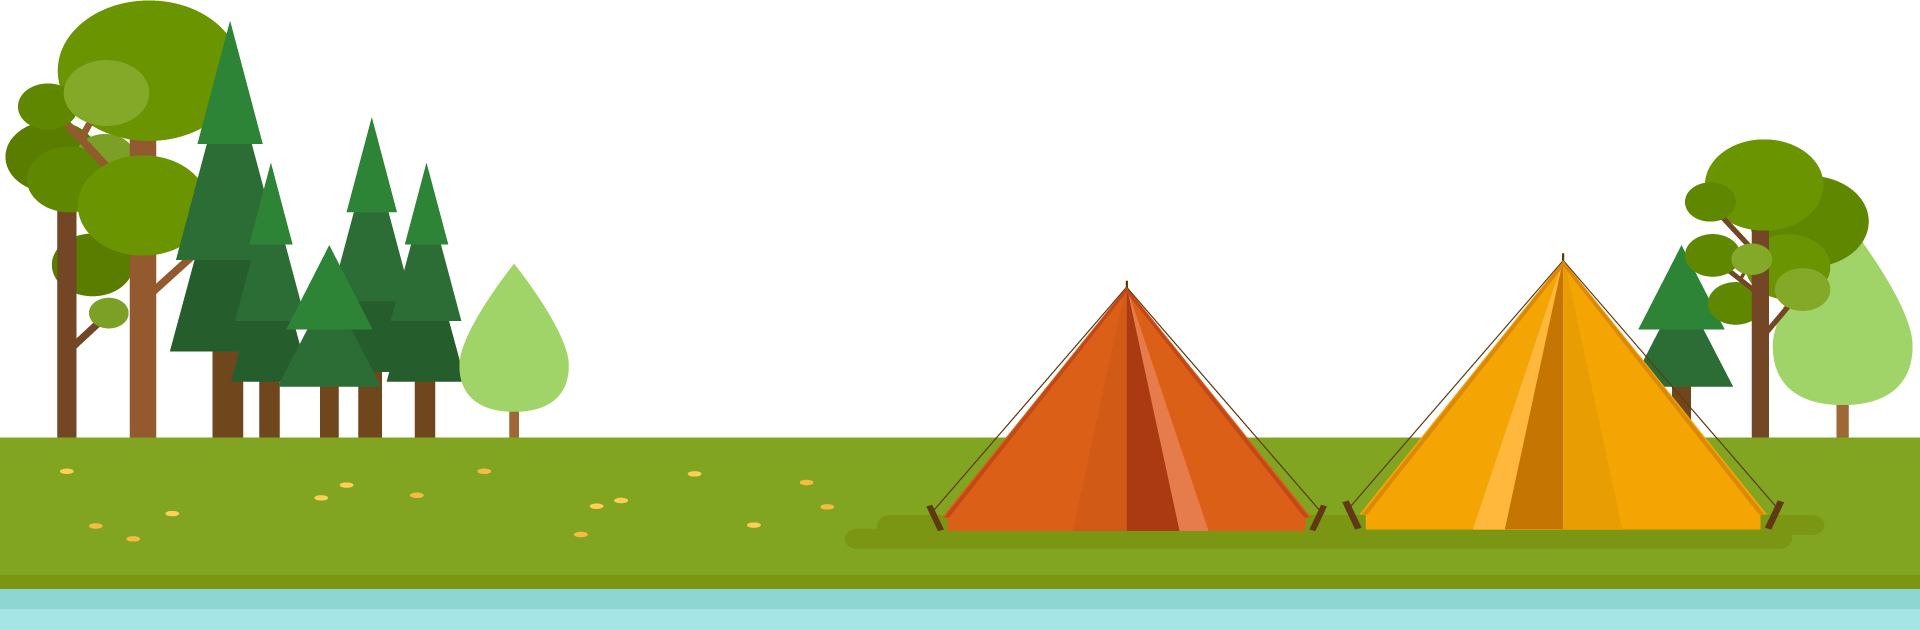
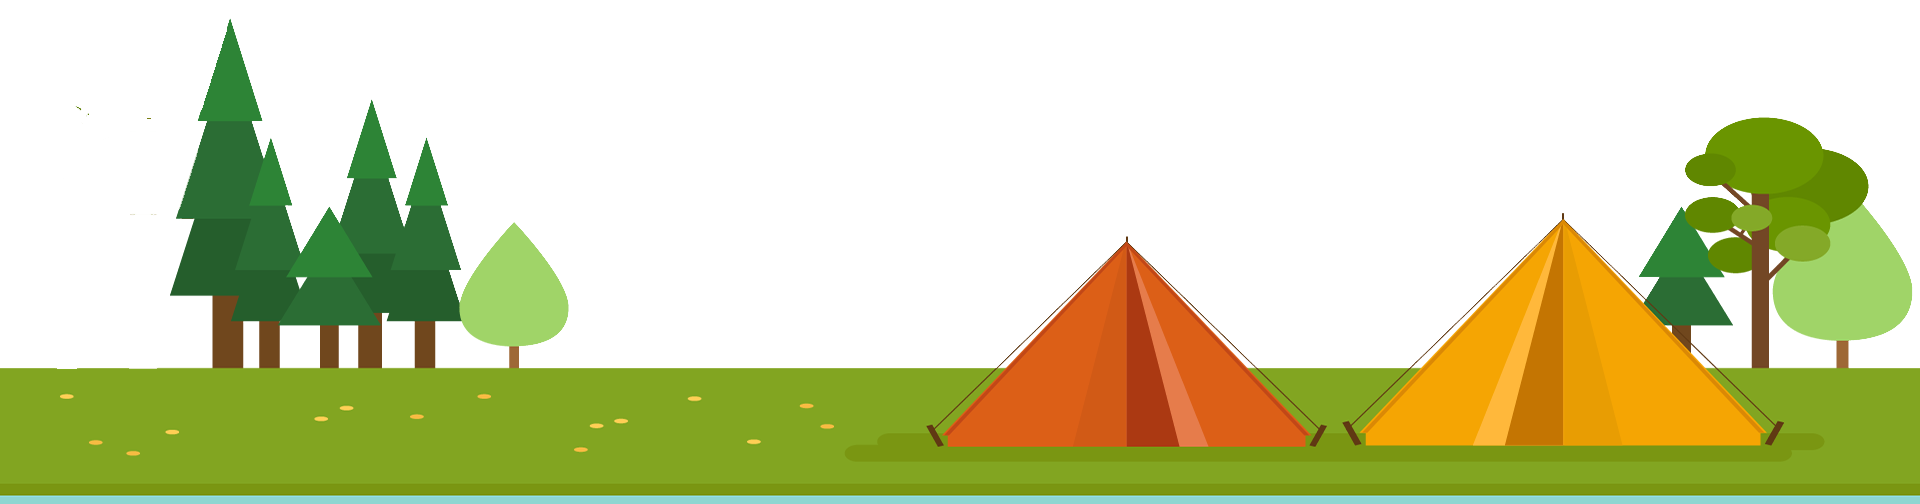
Update to UI less scrolling and transparent navbar.

diff --git a/SNCRegistration/Content/Site.css b/SNCRegistration/Content/Site.css
@@ -39,23 +39,26 @@ table th {
 }
 
 .intro-header {
-    padding-top: 55px;
     padding-bottom: 0px;
     text-align: center;
     color: #f8f8f8;
     background-size: cover;
+    z-index:500;
 }
 
 .intro-message {
     position: relative;
     padding-top: 0%;
     padding-bottom: 0%;
+      z-index:800;
+     margin-top: -135px;
 }
 
 .intro-message > h1 {
     margin: 0;
     text-shadow: 2px 2px 3px rgba(0,0,0,0.6);
     font-size: 5em;
+      z-index:600;
 }
 
 .intro-divider {
@@ -165,15 +168,15 @@ table th {
 .footer-top {
     background:url('../img/footer-top.png') center;
     background-repeat: no-repeat;
-    height: 630px;
+    height: 500px;
     width: 100%;
-    margin-top: -400px;
-    z-index: 500;
+    margin-top: -325px;
+    z-index: -10;
     position: relative;
 }
 
 footer {
-    padding: 30px 0;
+    padding: 35px 0;
     background: #a5e5e5;
     width: 100%;
 }
@@ -220,7 +223,7 @@ p.copyright {
 	-webkit-transform: scale(0.2);
 	-moz-transform: scale(0.2);
 	transform: scale(0.2);
-    z-index:-1;
+        z-index: -100;
 }
 
 .x2 {
@@ -230,9 +233,8 @@ p.copyright {
 	-webkit-transform: scale(0.60);
 	-moz-transform: scale(0.60);
 	transform: scale(0.60);
-    z-index:-1;
+        z-index: -100;
 }
-
 
 /* OBJECTS */
 
@@ -259,7 +261,7 @@ p.copyright {
     background: #fff;
 	content: '';
 	position: absolute;
-	z-indeX: -1;
+	z-indeX: -10;
 }
 
 .cloud:after {
@@ -430,10 +432,10 @@ pulse
 	background-image: none;
     }
     .carousel .item {
-	min-height: 165px; 
+	min-height: 150px; 
 	height: 100%;
 	width:100%;
-    background-color: #a5e5e5;
+    background-color: rgba(116,207,250,1);
     margin: auto;
     }
 
@@ -470,6 +472,7 @@ pulse
     -webkit-box-shadow: 0 2px 2px rgba(0,0,0,.1) !important;
     box-shadow: 0 2px 2px rgba(0,0,0,.1) !important;
     height: 80px !important;
+    background-color: rgba(255, 255, 255, 0.55);
 }
 
     @media (max-width: 767px) {
@@ -512,6 +515,7 @@ pulse
     margin-left: 25px !important;
     line-height: 10px !important;
     width: auto !important;
+    background-color: #fff !important;
 }
 }
 
@@ -527,7 +531,7 @@ pulse
  .navbar-nav > li > a {
     padding-top: 10px !important;
     padding-bottom: 10px !important;
-    line-height: 65px !important;
+    line-height: 55px !important;
 }
 
  .btn {
@@ -537,10 +541,20 @@ pulse
 
  canvas {
   padding: 0px;
-  bottom: 58px;
-  left: 58%;
+  bottom: 30px;
+  left: 28%;
   margin: auto;
   display: block;
   width: 300px;
   position: absolute;
+}
+
+ .panel {
+    margin-bottom: 20px !important;
+    background-color: #fff !important;
+    border: 1px solid transparent !important;
+    border-radius: 4px !important;
+    -webkit-box-shadow: 0 2px 2px rgba(0, 0, 0, .10) !important;
+    box-shadow: 0 2px 2px rgba(0, 0, 0, .10) !important;
+    z-index:500 !important;
 }
